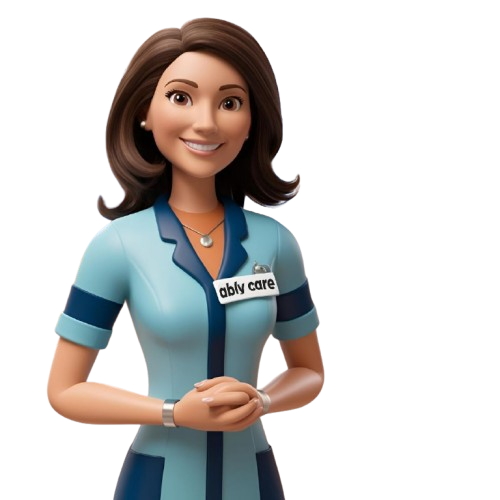
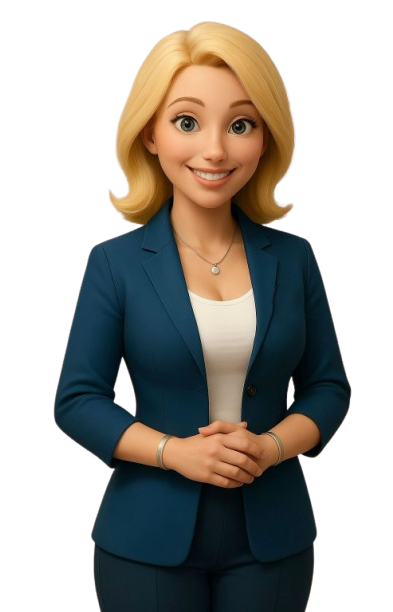
update : all title updated and persona updated

diff --git a/src/components/home/WhyChooseSection.tsx b/src/components/home/WhyChooseSection.tsx
@@ -25,7 +25,7 @@ const WhyChooseSection = () => {
               src={"/images/char-draft01.png"}
               alt="Ably Care Persona"
               fill
-              className="absolute w-full h-full object-cover"
+              className="absolute w-full h-full object-contain"
             />
           </div>
           <div className="z-10 w-full h-full flex flex-col items-start justify-end pl-6 pb-6 lg:p6 gap-3 lg:gap-6 lg:items-start lg:justify-center">

diff --git a/src/components/home/TeamSection.tsx b/src/components/home/TeamSection.tsx
@@ -28,7 +28,7 @@ const TeamSection = () => {
                 src={"/images/char-draft01.png"}
                 alt="Ably Care Persona"
                 fill
-                className="absolute w-full h-full object-cover"
+                className="absolute w-full h-full object-contain"
               />
             </div>
             <div className="w-full h-full absolute top-0 left-0 z-[5] rounded-xl overflow-hidden">

diff --git a/src/components/home/CoreValueSection.tsx b/src/components/home/CoreValueSection.tsx
@@ -36,7 +36,7 @@ const CoreValueSection = () => {
               src={"/images/char-draft01.png"}
               alt="Ably Care Persona"
               fill
-              className="absolute w-full h-full object-cover"
+              className="absolute w-full h-full object-contain"
             />
           </div>
           <div className="w-full h-full absolute top-0 left-0 z-[5] rounded-xl overflow-hidden">

diff --git a/src/components/Footer.tsx b/src/components/Footer.tsx
@@ -40,7 +40,7 @@ const Footer = () => {
   ];
 
   return (
-    <footer className="w-full bg-customAccent text-white font-inter mt-24 relative">
+    <footer className="w-full bg-customAccent text-white font-inter mt-56 relative">
       <div className="waves">
         <div className="wave" id="wave1"></div>
         <div className="wave" id="wave2"></div>

diff --git a/src/components/home/Hero.tsx b/src/components/home/Hero.tsx
@@ -37,7 +37,7 @@ const Hero = () => {
               src={"/images/char-draft01.png"}
               alt="Ably Care Persona"
               fill
-              className="absolute w-full h-full object-cover"
+              className="absolute w-full h-full object-contain"
             />
           </div>
         </div>

diff --git a/src/app/support-coordination/page.tsx b/src/app/support-coordination/page.tsx
@@ -13,6 +13,12 @@ import { CircleCheckBig } from "lucide-react";
 import Image from "next/image";
 import Link from "next/link";
 
+
+export const metadata = {
+  title: "Support Coordination | Ably Care",
+}
+
+
 const SupportCoordination = () => {
   return (
     <>

diff --git a/src/app/plan-management/page.tsx b/src/app/plan-management/page.tsx
@@ -12,6 +12,12 @@ import { CircleCheckBig } from "lucide-react";
 import Image from "next/image";
 import Link from "next/link";
 
+
+export const metadata = {
+  title: "Plan Management | Ably Care",
+}
+
+
 const PlanManagement = () => {
   return (
     <>

diff --git a/src/app/ndis/page.tsx b/src/app/ndis/page.tsx
@@ -6,6 +6,11 @@ import ChalkTitle from '@/components/ChalkTItle';
 import { ndisJourneyBulletPoints, ndisPrinciplesData } from '@/data/serviceData';
 
 
+export const metadata = {
+  title: "NDIS | Ably Care",
+}
+
+
 const Ndis =()=> {
   return (
     <>

diff --git a/src/app/community/page.tsx b/src/app/community/page.tsx
@@ -5,6 +5,10 @@ import { communityData } from "@/data/communityData";
 import Image from "next/image";
 import Link from "next/link";
 
+export const metadata = {
+  title: "Home & Community Care | Ably Care",
+}
+
 
 const Community = () => {
   return (

diff --git a/src/app/contact/page.tsx b/src/app/contact/page.tsx
@@ -2,6 +2,10 @@ import ContactFormSection from "@/components/contact/ContactFormSection"
 import Hero from "@/components/contact/Hero"
 
 
+export const metadata = {
+  title: "Contact | Ably Care",
+}
+
 const Contact = () => {
   return (
     <>

diff --git a/src/app/referral/page.tsx b/src/app/referral/page.tsx
@@ -1,6 +1,9 @@
 import Hero from "@/components/referral/Hero"
 import RefferalFormSection from "@/components/referral/RefferalFormSection"
 
+export const metadata = {
+  title: "Referral | Ably Care",
+}
 
 const Referral = () => {
   return (

diff --git a/src/app/accomadations/page.tsx b/src/app/accomadations/page.tsx
@@ -8,7 +8,9 @@ import { CircleCheckBig } from "lucide-react";
 import Image from "next/image";
 import Link from "next/link";
 
-
+export const metadata = {
+  title: "Accomadations | Ably Care",
+}
 
 
 const Accomadations = () => {
